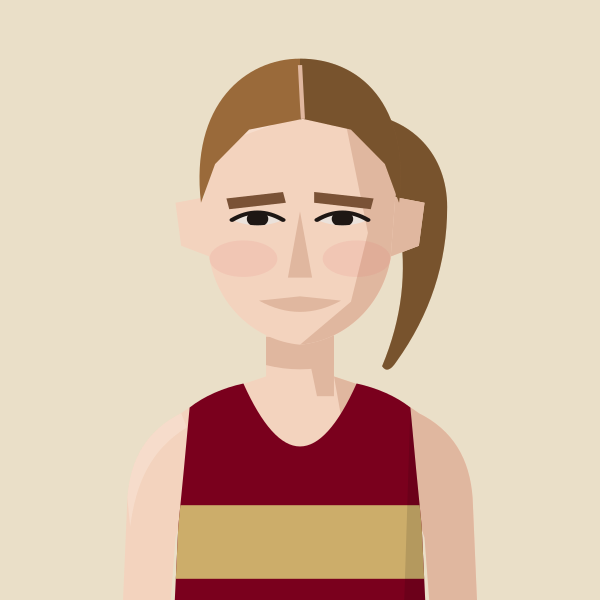
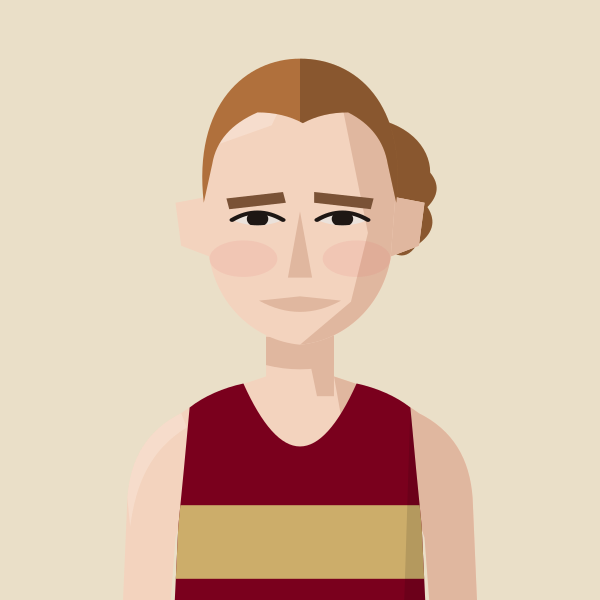
Rosie Powell: short tail, gingerer tone
Claude-Session: https://claude.ai/code/session_01MgmDWhFqnSSnP4iBLKXUZC

diff --git a/files/index.html b/files/index.html
@@ -887,7 +887,7 @@ const portraitFile=(name,club)=>{const k=normalizeNameForCompare(name||'').repla
 const portraitClubOf=(name,clubs)=>{for(const c of clubs||[]){if(c&&portraitFile(name,c))return c;}return null;}; /* first of these clubs we have a portrait for */
 // Athlete header figure: superstar portrait if we have one, else a grey runner in the club vest, else the plain vest icon
 // Changes whenever any portrait changes (set by tools/build_og.py), so browsers fetch fresh images instead of old cached ones
-const PORTRAIT_V='53169254';const PORTRAIT_WOMEN='abbey-brooke,abbie-bulbulian,adele-prince,aimee-hargreaves,aisling-ahern,alex-brown,alex-gandee,alex-marginean,alex-miller,alexa-parker,alexandra-barbour,alice-braham,alice-bridger-morales,alice-crane,alice-martin,alice-reed,alice-smith,alison-purnell,alison-thomson,amelia-pettitt,amy-clements,andrea-barber,anika-schwarze-chintapatla,anna-garnier,anna-garnier-hw,anna-sharp,annabel-hobday,annabelle-hadlow,anne-hegvold,annmarie-seymour,ava-mcandie,becky-briggs,bethan-goddard,bethanie-murray,bethany-brown,betsy-griffiths,billie-mcclosky,camilla-barden,caoimhe-nic-fhogartaigh,carolyne-baxter,catherine-bryson,catherine-eastham,catherine-kandie,cathy-ansell,charlotte-griffiths,chloe-beckett,chloe-tighe,chrissie-wellington,claire-grima,clara-pettit,clare-elms,clare-pauzers,dillan-quinn,dorchie-cockerell,eilidh-hide,elinor-skinner,eliza-grant,elizabeth-apsley,elizabeth-stavreski,ella-fennelly,ella-king-powrie,ella-may-hards,ella-newton,ellen-weir,ellie-brown,ellie-freeden,eloise-bull,emilie-arnoux,emily-barrett,emily-bradley,emily-lowery,emily-robbins,emma-bond,emma-gordon,emma-howsham,emma-lord,emma-rowland,estle-viljoen,evie-warren,felicity-cole,felicity-harrison,felicity-hayward,fi-maddocks,fiona-de-mauny,florence-wiggins,gabby-collison,gabriel-reynolds,gemma-newport,genevieve-blanch,georgia-curry,georgie-bruinvels,georgie-fenn,georgie-furze,georgie-grgec,gina-galbraith,grace-leyland,grace-richardson,hannah-edwards,hannah-english,heather-statham,heather-statham-cc,helen-alsop,helena-corbin,helena-keenan,holly-nixon,holly-pan,imogen-mackie,imogen-wolsey,iona-cousland,isabel-bradley,isabel-brinsden,isabel-hodder,isabelle-pickett,jennifer-nandi,jennifer-smith,jess-reed,jess-saunders,jess-winfield,jessica-davies,jessica-lowe,jodie-favell,jon-hobbs,josephine-rhodes,julia-bleasdale,julia-wedmore,juliet-hodder,juliette-clark,jurgita-levertaviciute,justine-lynch,karen-fenner,karen-xiang,karina-box,kate-axford,kate-williams,kathy-sharpe,katie-ellen-french,katie-good,katie-snowden,katy-hedgethorne,kitty-shepherd-cross,kristina-popadich,lara-bromilow,lara-mangan,laura-goodson,laura-miles,lauren-major,lea-adamson,lily-newton,lisa-bailey,lisa-thomas,lisa-thomas-hw,lizzie-goldie-scot,louise-cooper,lucy-jones,lucy-macalister,lucy-peters,lydia-blackmore,lydia-gallyer-barnett,maddie-mastrolonardo,maddy-whitman,maeve-kenny,margaret-coogan,martina-conner,mary-james,mary-setyabule,matilde-lomba,megan-gildea,mel-wilkins,mhairi-hall,mimi-corden-lloyd,molly-oconnor,molly-smith,monika-gajek,naomi-lenane,natalie-beadle,natalie-seymour,natasha-lodge,niamh-thompson,nicky-hayes,nicola-cartlidge,nicola-douglas,nikki-haines,nikki-sturzaker,nina-mills,olivia-papaioannou,olivia-stillman,orna-mcginley,pamela-mchutchon,patricia-walker,patrizia-gnoato,penny-oliver,rachel-brown,rebecca-barrow,rebekah-edgar,rosie-powell,ruby-carter,ruby-whyte-wilding,ruby-woolfe,sally-urquhart,sally-young,sally-young-slh,sam-whiting,samantha-munday,sarah-astin,sarah-dewhirst,sarah-grover,sarah-hanley,sarah-holt,sarah-murphy,sarah-palmer,sarah-palmer-ran,sarah-riceman,sarah-young,saron-haileselase,serena-carter,sophie-cowper,sophie-harris,sophie-hicks,sophie-tooley,stacey-ward,steph-hewitt,steph-mccall,steph-mccall-cc,steph-mccall-slh,steph-mitchell,suzanne-swaine,suze-spalding,suzie-harvey,suzy-whatmough,teresa-murphy,tilly-heaton,tilly-heaton-bel,tish-jones,vic-cartwright,vicky-clarke,vicky-edwards,victoria-barthelmess,victoria-buck,vikki-filsell,zoe-doyle,zoe-macdonald,zuzana-nemeckova';const PORTRAIT_MEN='aaron-wilson,abdulla-elsadig,adam-leane,adrian-major,adrien-royer,alan-black,alan-mead,alex-brecker,alex-bruce-littlewood,alex-gutteridge,alex-harris,alex-howard,alex-janiaud,alex-lee,alex-lennon,alex-mills,alex-milne,alex-morales,alex-robinson,alex-yee,alexander-marks,amittai-ben-israel,andrew-cumine,andrew-green,andrew-penney,andrew-perfect,andrew-simms,andrew-warburton,andrius-jaksevicius,andy-coley-maud,andy-coley-maud-cc,andy-fyfe,andy-north,andy-paton,andy-weir,angus-butler,angus-lamb,anisse-ismaili,arlo-ludewick,arne-dumez,arthur-peel,ashley-goncalves,barnaby-day,barry-collins,barry-sawyer,ben-clarke,ben-coughlan,ben-harding,ben-hurley,ben-ireland,ben-millar,ben-paviour,ben-pearce,ben-racle,ben-revill,ben-reynolds,ben-scott,ben-toomer,benedict-whitby,benjamin-hilson,bernie-ford,bill-kerr,bill-weller,bill-weller-wal,bob-harrison,bob-holt,bob-lunnon,bob-rayman,bob-smith,bradley-courtney-pinn,brandon-dewar,brian-gorman,brian-wilder,caleb-hathaway,callum-stewart,cameron-dockerill,cameron-reilly,carl-delaney,charles-herrington,charlie-dabbs,charlie-dickinson,charlie-eastaugh,charlie-manning,charlie-pickett,charlie-rogers,charlie-sandison,charlie-walker,charlie-wyllie,che-compton,chris-busaileh,chris-busaileh-hhh,chris-greenwood,chris-keavey,chris-moss,chris-steer,chris-threadgold,chris-warren,christian-lee,christopher-parker,clive-gilby,clive-shippen,colin-high,colin-pearson,conall-mcnally,conall-whelan,craig-ruddy,dame-dibaba,dan-cliffe,dan-pettitt,daniel-shaw,daniel-wolff,darren-mead,dave-beard,dave-beaver,dave-clarke,dave-glassborow,dave-hill,dave-holt,dave-taylor,david-anderson,david-bowers,david-grima,david-north,david-ogden,david-symons,david-walsh,david-williams,deron-fagan,dick-piotrowski,dimos-evangelidis,dom-nolan,dominic-kiralyfi,don-anderson,don-faircloth,don-maclean,doug-maughan,duncan-rimmer,dylan-evans,dylan-mitchard,ed-brewer,ed-catmur,ed-gibson,ed-mallett,ed-prickett,eddie-herridge,eddie-jodrell,eddie-rolls,edward-chuck,eoin-brady,eoin-molloy,ethan-mccolgan,falilou-kebe,findlay-dyer,finn-johnson,fintan-pearce,frank-tickner,frank-ward,fred-paget,fred-slemeck,freddie-hessian,garret-lee,gary-ribbons,gary-ribbons-ee,gary-staines,gary-staines-bel,gavin-eccles,geoff-biscoe,geoff-jerwood,geoff-north,george-cotton,george-gathercole,george-jackson,george-loxton,george-mallett,george-ogden,gerry-adams,gerry-north,glen-keegan,gordon-pearce,graham-macky,grenville-tuck,harrison-hayman,harry-guttridge,hector-revill,henry-hart,henry-silverstein,hugo-hewitt,huw-lobb,ian-acreman,ian-crowe-wright,ian-ellwood,ian-harkness,indy-barnes,isaac-lutaya,isaac-parker,jack-brotchie,jack-dickson,jack-dormer,jack-hampshire,jack-harrison,jack-hobden,jack-kavanagh,jack-millar,jack-ramm,jack-woods,jacob-brockmann,jake-simmonds,james-bartram,james-blackwood,james-bowler,james-estall,james-ewing,james-fox,james-hancock,james-harvey,james-hoad,james-kelly,james-mcmullan,james-murray,james-nutt,james-preston,james-roberts,james-stockings,james-ward,james-wootton,jamie-crowe,jamie-parkinson,jared-martin,jean-paul-wright,jeff-cunningham,jeremy-dempsey,jermaine-mays,jerry-watson,jim-allchin,jim-rimmer,joachim-wolf,joe-english,joe-hartley,john-baker,john-bicourt,john-bromley,john-davies,john-dear,john-foss,john-foxall,john-gilbert,john-gladwin,john-hutchins,john-kendall,john-kimaiyo,john-lee,john-lethbridge,john-mather,john-moore,john-roberts,john-sanderson,john-stow,john-sullivan,john-thresher,jon-pepper,jon-pepper-slh,jon-phillips,jon-solly,jonathan-cocker,jonathan-collier,jonathan-cornish,jonathan-ratcliffe,jonathan-tipper,jonny-neville,jonny-scott,jordan-weaver,josh-mitchell,josh-snow,josh-trigwell,jules-gevers,junior-galley,justin-chaston,justin-reid,kassa-tadesse,keith-newton,ken-penney,ken-penney-cro,kevin-nash,kevin-quinn,kevin-sturman,kieran-barnes,kieran-white,knut-hegvold,knut-hegvold-bel,larry-ryan,lawrence-avery,lee-lintern,les-presland,les-presland-sur,lewis-lloyd,liam-burthem,lionel-mann,lloyd-kempson,luke-caldwell,mack-downie,malachi-byansi,marcello-bizio,marcelo-fortes,marco-mazzotta,mark-anderson,mark-miles,mark-sinclair,mark-tennyson,mark-waller,martin-dent,martin-duff,martin-lake,martin-lewington,martin-shore,mathew-speed,matt-chaston,matt-jones,matt-wood,matt-yates,matthew-edgar,matthew-houchell,matthew-thomas,matthew-varley,max-bloor,max-heyden,max-milarvie,max-nicholls,michael-baker,michael-mccarthy,mick-gowan,mick-woods,mike-beevor,mike-boyle,mike-cummings,mike-farmery,mike-fuller,mike-hayes,mike-kortenray,mike-nouch,mohammed-ismail,monty-hudson,morgan-roberts,nathan-visick,neil-chisholm,neil-phillips,neil-speaight,neil-wilson,nic-lukies,nick-acfield,nick-altmann,nick-bester,nick-bester-hhh,nick-buckle,nick-bundle,nick-goolab,nick-lightfoot,nick-morris,nick-torry,noah-fernandez,norman-stairs,oli-carrington,oliver-carrington,oliver-fox,oliver-reynolds,oliver-young,ollie-foote,ollie-garrod,olly-buck,owen-hind,paddy-roddy,pancho-panchev,paskar-owor,pat-newell,patrick-mcdougall,paul-calver,paul-cheetham,paul-evans,paul-freary,paul-magner,paul-pollock,paul-sanderson,paul-sanderson-wok,pete-carton,pete-gardner,peter-clarke,peter-giles,peter-giles-thh,peter-lighting,phil-carstairs,phil-sanders,phil-sesemann,phil-swinburn,phil-wicks,phil-woodford-smith,raj-paranandi,ralph-street,ranjit-bhatia,ray-foley,reece-edwards,rhys-boorman,rian-mccawley,richard-ashe,richard-giles,richard-henderson,richard-langley,richard-mcdowell,richard-ollington,richard-partridge,richard-sun,richard-ward,rob-armstrong,rob-kelly,rob-tuer,robert-elphick,robert-laing,robert-norville,robert-peacock,robert-sesemann,robin-boon,robin-hudson,roger-alsop,roger-alsop-bel,roger-hackney,ron-clark,ron-linstead,ronan-tanguy,rory-mcmahon,rory-orsborn,ross-braden,ross-christie,rowan-board,rowan-crichton,russell-dessaix-chin,ryan-hickey,ryan-mccallister,sam-bramwell,sam-charlton,sam-gebreselassie,sam-haughian,sam-peters,sam-sommerville,sam-tyas,samuel-dames,samuel-wilcock,sean-cordon,sebastian-anthony,simon-baines,simon-coombes,simon-coppard,simon-fairbrother,simon-holmes,simon-rayner,simon-rayner-hw,simon-wade,simon-wade-hhh,simon-waterhouse,simon-williams,simon-wurr,sonny-nicoll,spencer-barden,stephen-mcleod,stephen-sharp,steve-gardner,steve-jones,steve-smythe,steve-smythe-hhh,stuart-beaney,stuart-major,stuart-major-thh,stuart-mccallum,stuart-paton,terry-booth,thomas-dugre,thomas-gandee,thomas-gardner,thomas-renshaw,tim-alexander,tim-eglen,tim-lawrence,tim-watson,toby-cooke,toby-fletcher,tom-austin,tom-cheetham,tom-conlon,tom-davies,tom-gifford,tom-higgs,tom-jervis,tom-lole,tom-south,tom-thornley,tommy-taylor,tony-binda,tony-fairclough,tony-harran,trevor-hart,valdis-pauzers,valentin-rigori,vic-maughan,wayne-oxborough,will-cockerell,will-lewis,will-marshall,will-scott,will-stockley,william-gardner,yacin-yusuf,zach-nolan';
+const PORTRAIT_V='2a040a39';const PORTRAIT_WOMEN='abbey-brooke,abbie-bulbulian,adele-prince,aimee-hargreaves,aisling-ahern,alex-brown,alex-gandee,alex-marginean,alex-miller,alexa-parker,alexandra-barbour,alice-braham,alice-bridger-morales,alice-crane,alice-martin,alice-reed,alice-smith,alison-purnell,alison-thomson,amelia-pettitt,amy-clements,andrea-barber,anika-schwarze-chintapatla,anna-garnier,anna-garnier-hw,anna-sharp,annabel-hobday,annabelle-hadlow,anne-hegvold,annmarie-seymour,ava-mcandie,becky-briggs,bethan-goddard,bethanie-murray,bethany-brown,betsy-griffiths,billie-mcclosky,camilla-barden,caoimhe-nic-fhogartaigh,carolyne-baxter,catherine-bryson,catherine-eastham,catherine-kandie,cathy-ansell,charlotte-griffiths,chloe-beckett,chloe-tighe,chrissie-wellington,claire-grima,clara-pettit,clare-elms,clare-pauzers,dillan-quinn,dorchie-cockerell,eilidh-hide,elinor-skinner,eliza-grant,elizabeth-apsley,elizabeth-stavreski,ella-fennelly,ella-king-powrie,ella-may-hards,ella-newton,ellen-weir,ellie-brown,ellie-freeden,eloise-bull,emilie-arnoux,emily-barrett,emily-bradley,emily-lowery,emily-robbins,emma-bond,emma-gordon,emma-howsham,emma-lord,emma-rowland,estle-viljoen,evie-warren,felicity-cole,felicity-harrison,felicity-hayward,fi-maddocks,fiona-de-mauny,florence-wiggins,gabby-collison,gabriel-reynolds,gemma-newport,genevieve-blanch,georgia-curry,georgie-bruinvels,georgie-fenn,georgie-furze,georgie-grgec,gina-galbraith,grace-leyland,grace-richardson,hannah-edwards,hannah-english,heather-statham,heather-statham-cc,helen-alsop,helena-corbin,helena-keenan,holly-nixon,holly-pan,imogen-mackie,imogen-wolsey,iona-cousland,isabel-bradley,isabel-brinsden,isabel-hodder,isabelle-pickett,jennifer-nandi,jennifer-smith,jess-reed,jess-saunders,jess-winfield,jessica-davies,jessica-lowe,jodie-favell,jon-hobbs,josephine-rhodes,julia-bleasdale,julia-wedmore,juliet-hodder,juliette-clark,jurgita-levertaviciute,justine-lynch,karen-fenner,karen-xiang,karina-box,kate-axford,kate-williams,kathy-sharpe,katie-ellen-french,katie-good,katie-snowden,katy-hedgethorne,kitty-shepherd-cross,kristina-popadich,lara-bromilow,lara-mangan,laura-goodson,laura-miles,lauren-major,lea-adamson,lily-newton,lisa-bailey,lisa-thomas,lisa-thomas-hw,lizzie-goldie-scot,louise-cooper,lucy-jones,lucy-macalister,lucy-peters,lydia-blackmore,lydia-gallyer-barnett,maddie-mastrolonardo,maddy-whitman,maeve-kenny,margaret-coogan,martina-conner,mary-james,mary-setyabule,matilde-lomba,megan-gildea,mel-wilkins,mhairi-hall,mimi-corden-lloyd,molly-oconnor,molly-smith,monika-gajek,naomi-lenane,natalie-beadle,natalie-seymour,natasha-lodge,niamh-thompson,nicky-hayes,nicola-cartlidge,nicola-douglas,nikki-haines,nikki-sturzaker,nina-mills,olivia-papaioannou,olivia-stillman,orna-mcginley,pamela-mchutchon,patricia-walker,patrizia-gnoato,penny-oliver,rachel-brown,rebecca-barrow,rebekah-edgar,rosie-powell,ruby-carter,ruby-whyte-wilding,ruby-woolfe,sally-urquhart,sally-young,sally-young-slh,sam-whiting,samantha-munday,sarah-astin,sarah-dewhirst,sarah-grover,sarah-hanley,sarah-holt,sarah-murphy,sarah-palmer,sarah-palmer-ran,sarah-riceman,sarah-young,saron-haileselase,serena-carter,sophie-cowper,sophie-harris,sophie-hicks,sophie-tooley,stacey-ward,steph-hewitt,steph-mccall,steph-mccall-cc,steph-mccall-slh,steph-mitchell,suzanne-swaine,suze-spalding,suzie-harvey,suzy-whatmough,teresa-murphy,tilly-heaton,tilly-heaton-bel,tish-jones,vic-cartwright,vicky-clarke,vicky-edwards,victoria-barthelmess,victoria-buck,vikki-filsell,zoe-doyle,zoe-macdonald,zuzana-nemeckova';const PORTRAIT_MEN='aaron-wilson,abdulla-elsadig,adam-leane,adrian-major,adrien-royer,alan-black,alan-mead,alex-brecker,alex-bruce-littlewood,alex-gutteridge,alex-harris,alex-howard,alex-janiaud,alex-lee,alex-lennon,alex-mills,alex-milne,alex-morales,alex-robinson,alex-yee,alexander-marks,amittai-ben-israel,andrew-cumine,andrew-green,andrew-penney,andrew-perfect,andrew-simms,andrew-warburton,andrius-jaksevicius,andy-coley-maud,andy-coley-maud-cc,andy-fyfe,andy-north,andy-paton,andy-weir,angus-butler,angus-lamb,anisse-ismaili,arlo-ludewick,arne-dumez,arthur-peel,ashley-goncalves,barnaby-day,barry-collins,barry-sawyer,ben-clarke,ben-coughlan,ben-harding,ben-hurley,ben-ireland,ben-millar,ben-paviour,ben-pearce,ben-racle,ben-revill,ben-reynolds,ben-scott,ben-toomer,benedict-whitby,benjamin-hilson,bernie-ford,bill-kerr,bill-weller,bill-weller-wal,bob-harrison,bob-holt,bob-lunnon,bob-rayman,bob-smith,bradley-courtney-pinn,brandon-dewar,brian-gorman,brian-wilder,caleb-hathaway,callum-stewart,cameron-dockerill,cameron-reilly,carl-delaney,charles-herrington,charlie-dabbs,charlie-dickinson,charlie-eastaugh,charlie-manning,charlie-pickett,charlie-rogers,charlie-sandison,charlie-walker,charlie-wyllie,che-compton,chris-busaileh,chris-busaileh-hhh,chris-greenwood,chris-keavey,chris-moss,chris-steer,chris-threadgold,chris-warren,christian-lee,christopher-parker,clive-gilby,clive-shippen,colin-high,colin-pearson,conall-mcnally,conall-whelan,craig-ruddy,dame-dibaba,dan-cliffe,dan-pettitt,daniel-shaw,daniel-wolff,darren-mead,dave-beard,dave-beaver,dave-clarke,dave-glassborow,dave-hill,dave-holt,dave-taylor,david-anderson,david-bowers,david-grima,david-north,david-ogden,david-symons,david-walsh,david-williams,deron-fagan,dick-piotrowski,dimos-evangelidis,dom-nolan,dominic-kiralyfi,don-anderson,don-faircloth,don-maclean,doug-maughan,duncan-rimmer,dylan-evans,dylan-mitchard,ed-brewer,ed-catmur,ed-gibson,ed-mallett,ed-prickett,eddie-herridge,eddie-jodrell,eddie-rolls,edward-chuck,eoin-brady,eoin-molloy,ethan-mccolgan,falilou-kebe,findlay-dyer,finn-johnson,fintan-pearce,frank-tickner,frank-ward,fred-paget,fred-slemeck,freddie-hessian,garret-lee,gary-ribbons,gary-ribbons-ee,gary-staines,gary-staines-bel,gavin-eccles,geoff-biscoe,geoff-jerwood,geoff-north,george-cotton,george-gathercole,george-jackson,george-loxton,george-mallett,george-ogden,gerry-adams,gerry-north,glen-keegan,gordon-pearce,graham-macky,grenville-tuck,harrison-hayman,harry-guttridge,hector-revill,henry-hart,henry-silverstein,hugo-hewitt,huw-lobb,ian-acreman,ian-crowe-wright,ian-ellwood,ian-harkness,indy-barnes,isaac-lutaya,isaac-parker,jack-brotchie,jack-dickson,jack-dormer,jack-hampshire,jack-harrison,jack-hobden,jack-kavanagh,jack-millar,jack-ramm,jack-woods,jacob-brockmann,jake-simmonds,james-bartram,james-blackwood,james-bowler,james-estall,james-ewing,james-fox,james-hancock,james-harvey,james-hoad,james-kelly,james-mcmullan,james-murray,james-nutt,james-preston,james-roberts,james-stockings,james-ward,james-wootton,jamie-crowe,jamie-parkinson,jared-martin,jean-paul-wright,jeff-cunningham,jeremy-dempsey,jermaine-mays,jerry-watson,jim-allchin,jim-rimmer,joachim-wolf,joe-english,joe-hartley,john-baker,john-bicourt,john-bromley,john-davies,john-dear,john-foss,john-foxall,john-gilbert,john-gladwin,john-hutchins,john-kendall,john-kimaiyo,john-lee,john-lethbridge,john-mather,john-moore,john-roberts,john-sanderson,john-stow,john-sullivan,john-thresher,jon-pepper,jon-pepper-slh,jon-phillips,jon-solly,jonathan-cocker,jonathan-collier,jonathan-cornish,jonathan-ratcliffe,jonathan-tipper,jonny-neville,jonny-scott,jordan-weaver,josh-mitchell,josh-snow,josh-trigwell,jules-gevers,junior-galley,justin-chaston,justin-reid,kassa-tadesse,keith-newton,ken-penney,ken-penney-cro,kevin-nash,kevin-quinn,kevin-sturman,kieran-barnes,kieran-white,knut-hegvold,knut-hegvold-bel,larry-ryan,lawrence-avery,lee-lintern,les-presland,les-presland-sur,lewis-lloyd,liam-burthem,lionel-mann,lloyd-kempson,luke-caldwell,mack-downie,malachi-byansi,marcello-bizio,marcelo-fortes,marco-mazzotta,mark-anderson,mark-miles,mark-sinclair,mark-tennyson,mark-waller,martin-dent,martin-duff,martin-lake,martin-lewington,martin-shore,mathew-speed,matt-chaston,matt-jones,matt-wood,matt-yates,matthew-edgar,matthew-houchell,matthew-thomas,matthew-varley,max-bloor,max-heyden,max-milarvie,max-nicholls,michael-baker,michael-mccarthy,mick-gowan,mick-woods,mike-beevor,mike-boyle,mike-cummings,mike-farmery,mike-fuller,mike-hayes,mike-kortenray,mike-nouch,mohammed-ismail,monty-hudson,morgan-roberts,nathan-visick,neil-chisholm,neil-phillips,neil-speaight,neil-wilson,nic-lukies,nick-acfield,nick-altmann,nick-bester,nick-bester-hhh,nick-buckle,nick-bundle,nick-goolab,nick-lightfoot,nick-morris,nick-torry,noah-fernandez,norman-stairs,oli-carrington,oliver-carrington,oliver-fox,oliver-reynolds,oliver-young,ollie-foote,ollie-garrod,olly-buck,owen-hind,paddy-roddy,pancho-panchev,paskar-owor,pat-newell,patrick-mcdougall,paul-calver,paul-cheetham,paul-evans,paul-freary,paul-magner,paul-pollock,paul-sanderson,paul-sanderson-wok,pete-carton,pete-gardner,peter-clarke,peter-giles,peter-giles-thh,peter-lighting,phil-carstairs,phil-sanders,phil-sesemann,phil-swinburn,phil-wicks,phil-woodford-smith,raj-paranandi,ralph-street,ranjit-bhatia,ray-foley,reece-edwards,rhys-boorman,rian-mccawley,richard-ashe,richard-giles,richard-henderson,richard-langley,richard-mcdowell,richard-ollington,richard-partridge,richard-sun,richard-ward,rob-armstrong,rob-kelly,rob-tuer,robert-elphick,robert-laing,robert-norville,robert-peacock,robert-sesemann,robin-boon,robin-hudson,roger-alsop,roger-alsop-bel,roger-hackney,ron-clark,ron-linstead,ronan-tanguy,rory-mcmahon,rory-orsborn,ross-braden,ross-christie,rowan-board,rowan-crichton,russell-dessaix-chin,ryan-hickey,ryan-mccallister,sam-bramwell,sam-charlton,sam-gebreselassie,sam-haughian,sam-peters,sam-sommerville,sam-tyas,samuel-dames,samuel-wilcock,sean-cordon,sebastian-anthony,simon-baines,simon-coombes,simon-coppard,simon-fairbrother,simon-holmes,simon-rayner,simon-rayner-hw,simon-wade,simon-wade-hhh,simon-waterhouse,simon-williams,simon-wurr,sonny-nicoll,spencer-barden,stephen-mcleod,stephen-sharp,steve-gardner,steve-jones,steve-smythe,steve-smythe-hhh,stuart-beaney,stuart-major,stuart-major-thh,stuart-mccallum,stuart-paton,terry-booth,thomas-dugre,thomas-gandee,thomas-gardner,thomas-renshaw,tim-alexander,tim-eglen,tim-lawrence,tim-watson,toby-cooke,toby-fletcher,tom-austin,tom-cheetham,tom-conlon,tom-davies,tom-gifford,tom-higgs,tom-jervis,tom-lole,tom-south,tom-thornley,tommy-taylor,tony-binda,tony-fairclough,tony-harran,trevor-hart,valdis-pauzers,valentin-rigori,vic-maughan,wayne-oxborough,will-cockerell,will-lewis,will-marshall,will-scott,will-stockley,william-gardner,yacin-yusuf,zach-nolan';
 // Runners whose dog pops up on their own profile page (a -dog.svg version of their portrait)
 const PROFILE_DOGS=new Set(['john-sanderson','penny-oliver','james-hancock','angus-butler']);
 const AthletePortrait=({name,club,w,fill,onClick,blink})=>{const[failed,setFailed]=useState(false);const file=portraitFile(name,club);const src0=file?`/portraits/athletes/${file}.svg?v=${PORTRAIT_V}`:PORTRAIT_CLUBS.has(club)?`/portraits/clubs/${club.replace(/\//g,'').replace(/&/g,'and')}.svg?v=${PORTRAIT_V}`:null;const blinkSrc=useBlinkSrc(file?(PROFILE_DOGS.has(file)?`/portraits/athletes/${file}-dog.svg?v=${PORTRAIT_V}`:src0):null,!!blink);const src=blinkSrc||src0;if(!src||failed)return<div onClick={onClick} className={onClick?'cursor-pointer':''}><ClubShield club={club} size={w}/></div>;const h=Math.round(w*148/126),ih=Math.round(w*1.4);if(fill)return<div onClick={onClick} className="cursor-pointer" style={{alignSelf:'stretch',minHeight:h,aspectRatio:'126 / 148',flexShrink:0,position:'relative',borderRadius:4,overflow:'hidden'}}><img src={src} alt={file?`Portrait of ${name.replace(/\s*\([^)]*\)$/,'')}`:`Runner in ${CLUBS[club]?.name||club} vest`} style={{position:'absolute',top:0,left:0,display:'block',width:'100%',height:'auto'}} onError={()=>setFailed(true)}/></div>;return<div style={{width:w,height:h,borderRadius:4,overflow:'hidden',flexShrink:0}}><img src={src} alt={file?`Portrait of ${name.replace(/\s*\([^)]*\)$/,'')}`:`Runner in ${CLUBS[club]?.name||club} vest`} width={w} height={ih} style={{display:'block',width:w,height:ih}} onError={()=>setFailed(true)}/></div>;};

diff --git a/tools/gen_portraits.py b/tools/gen_portraits.py
@@ -2109,7 +2109,7 @@ save("vicky-edwards", widesmile(nose(brows(eyes(figure("BEL", skin=1, hair="slic
 # Helen Alsop (BEL 2002-06): brown hair tied back in a short tail, big smile, flush
 save("helen-alsop", widesmile(nose(brows(eyes(figure("BEL", skin=1, hair="slicktail", hair_colour="#5A3E2A", brow_colour="#4A3222", rosy=True), None, 0), 0, 0, 2), 0.95, 1.15)))
 
-# Rosie Powell (BEL 2003-05): auburn hair tied back in a ponytail, big smile, flush
-save("rosie-powell", widesmile(nose(brows(eyes(figure("BEL", skin=1, hair="ponytail", hair_colour="#9A6A3A", brow_colour="#7A5236", rosy=True), None, 0), 0, 0, 2), 0.95, 1.1)))
+# Rosie Powell (BEL 2003-05): ginger-auburn hair tied back in a short tail, big smile, flush
+save("rosie-powell", widesmile(nose(brows(eyes(figure("BEL", skin=1, hair="slicktail", hair_colour="#B0703C", brow_colour="#7A5236", rosy=True), None, 0), 0, 0, 2), 0.95, 1.1)))
 
 export_site()
